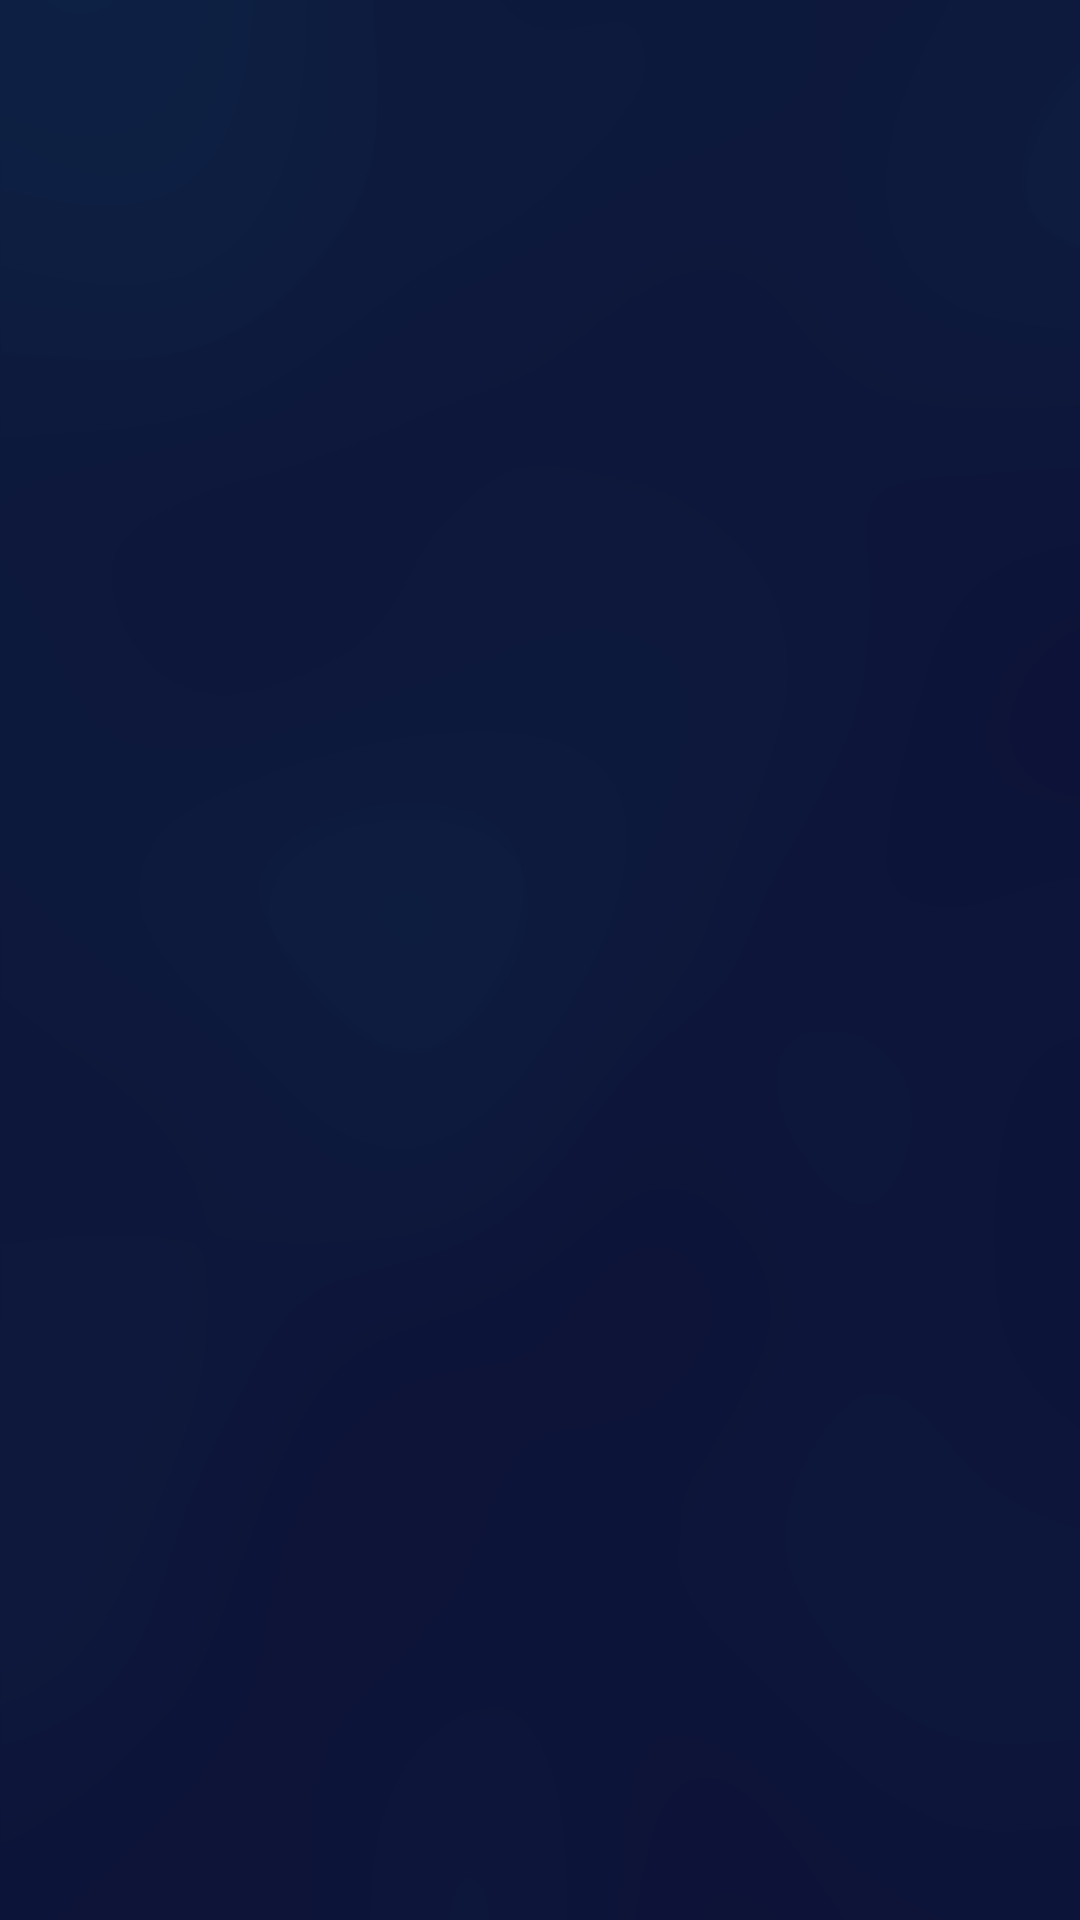
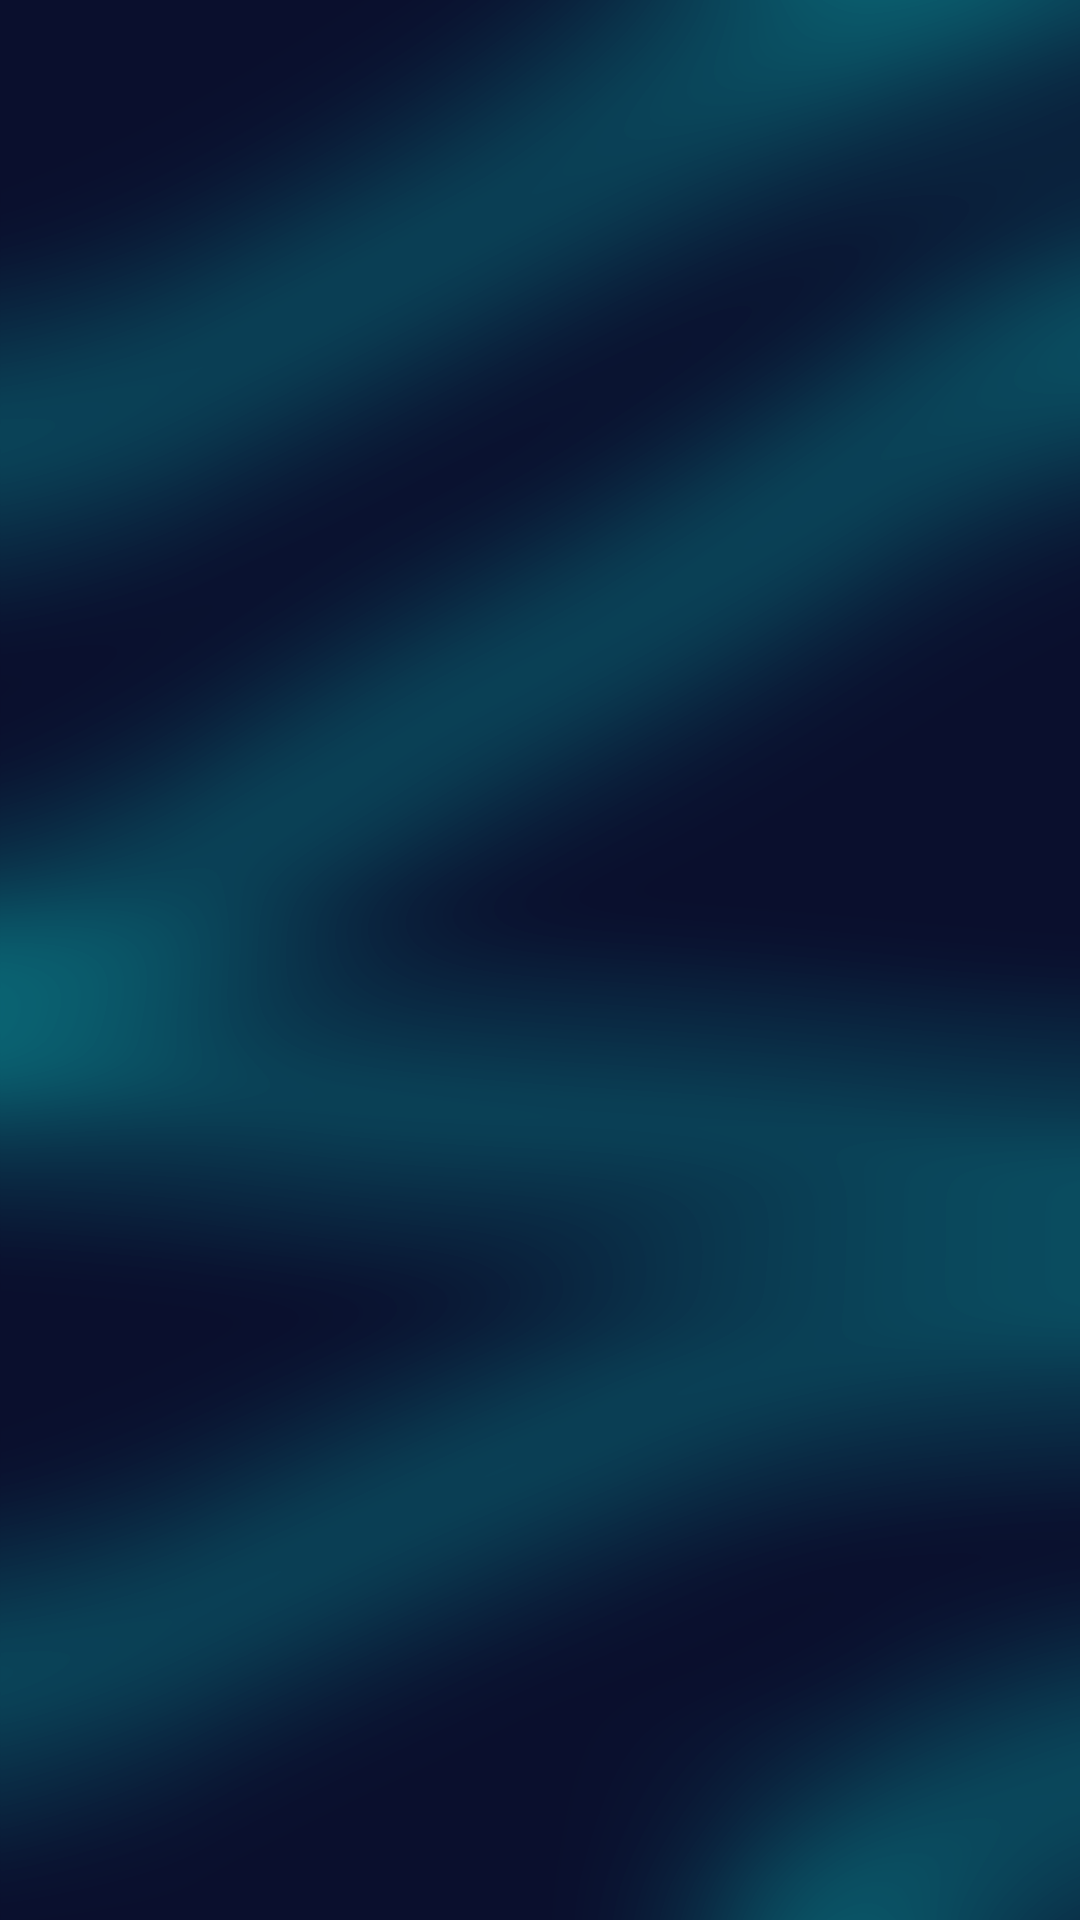
More background experiments

diff --git a/core/src/com/mygdx/game/Background.java b/core/src/com/mygdx/game/Background.java
@@ -66,7 +66,7 @@ public class Background {
                         1 - ProjectSolaris.remap(ProjectSolaris.shaderPosition.y, ProjectSolaris.bgOrigin.y, ProjectSolaris.height * multiplier / 2 + ProjectSolaris.height / 2, 0, 1)));
         ProjectSolaris.shaderProgram.setUniformf("time", ProjectSolaris.shaderTime);
         ProjectSolaris.shaderProgram.setUniformf("shockParams", new Vector3(10.0f, 0.8f, 0.1f));
-        ProjectSolaris.shaderProgram.setUniformf("sizeMultiplier",12f);
+        ProjectSolaris.shaderProgram.setUniformf("sizeMultiplier",8f);
         ProjectSolaris.shaderProgram.end();
         ProjectSolaris.batch.begin();
         ProjectSolaris.batch.setShader(ProjectSolaris.shaderProgram);
